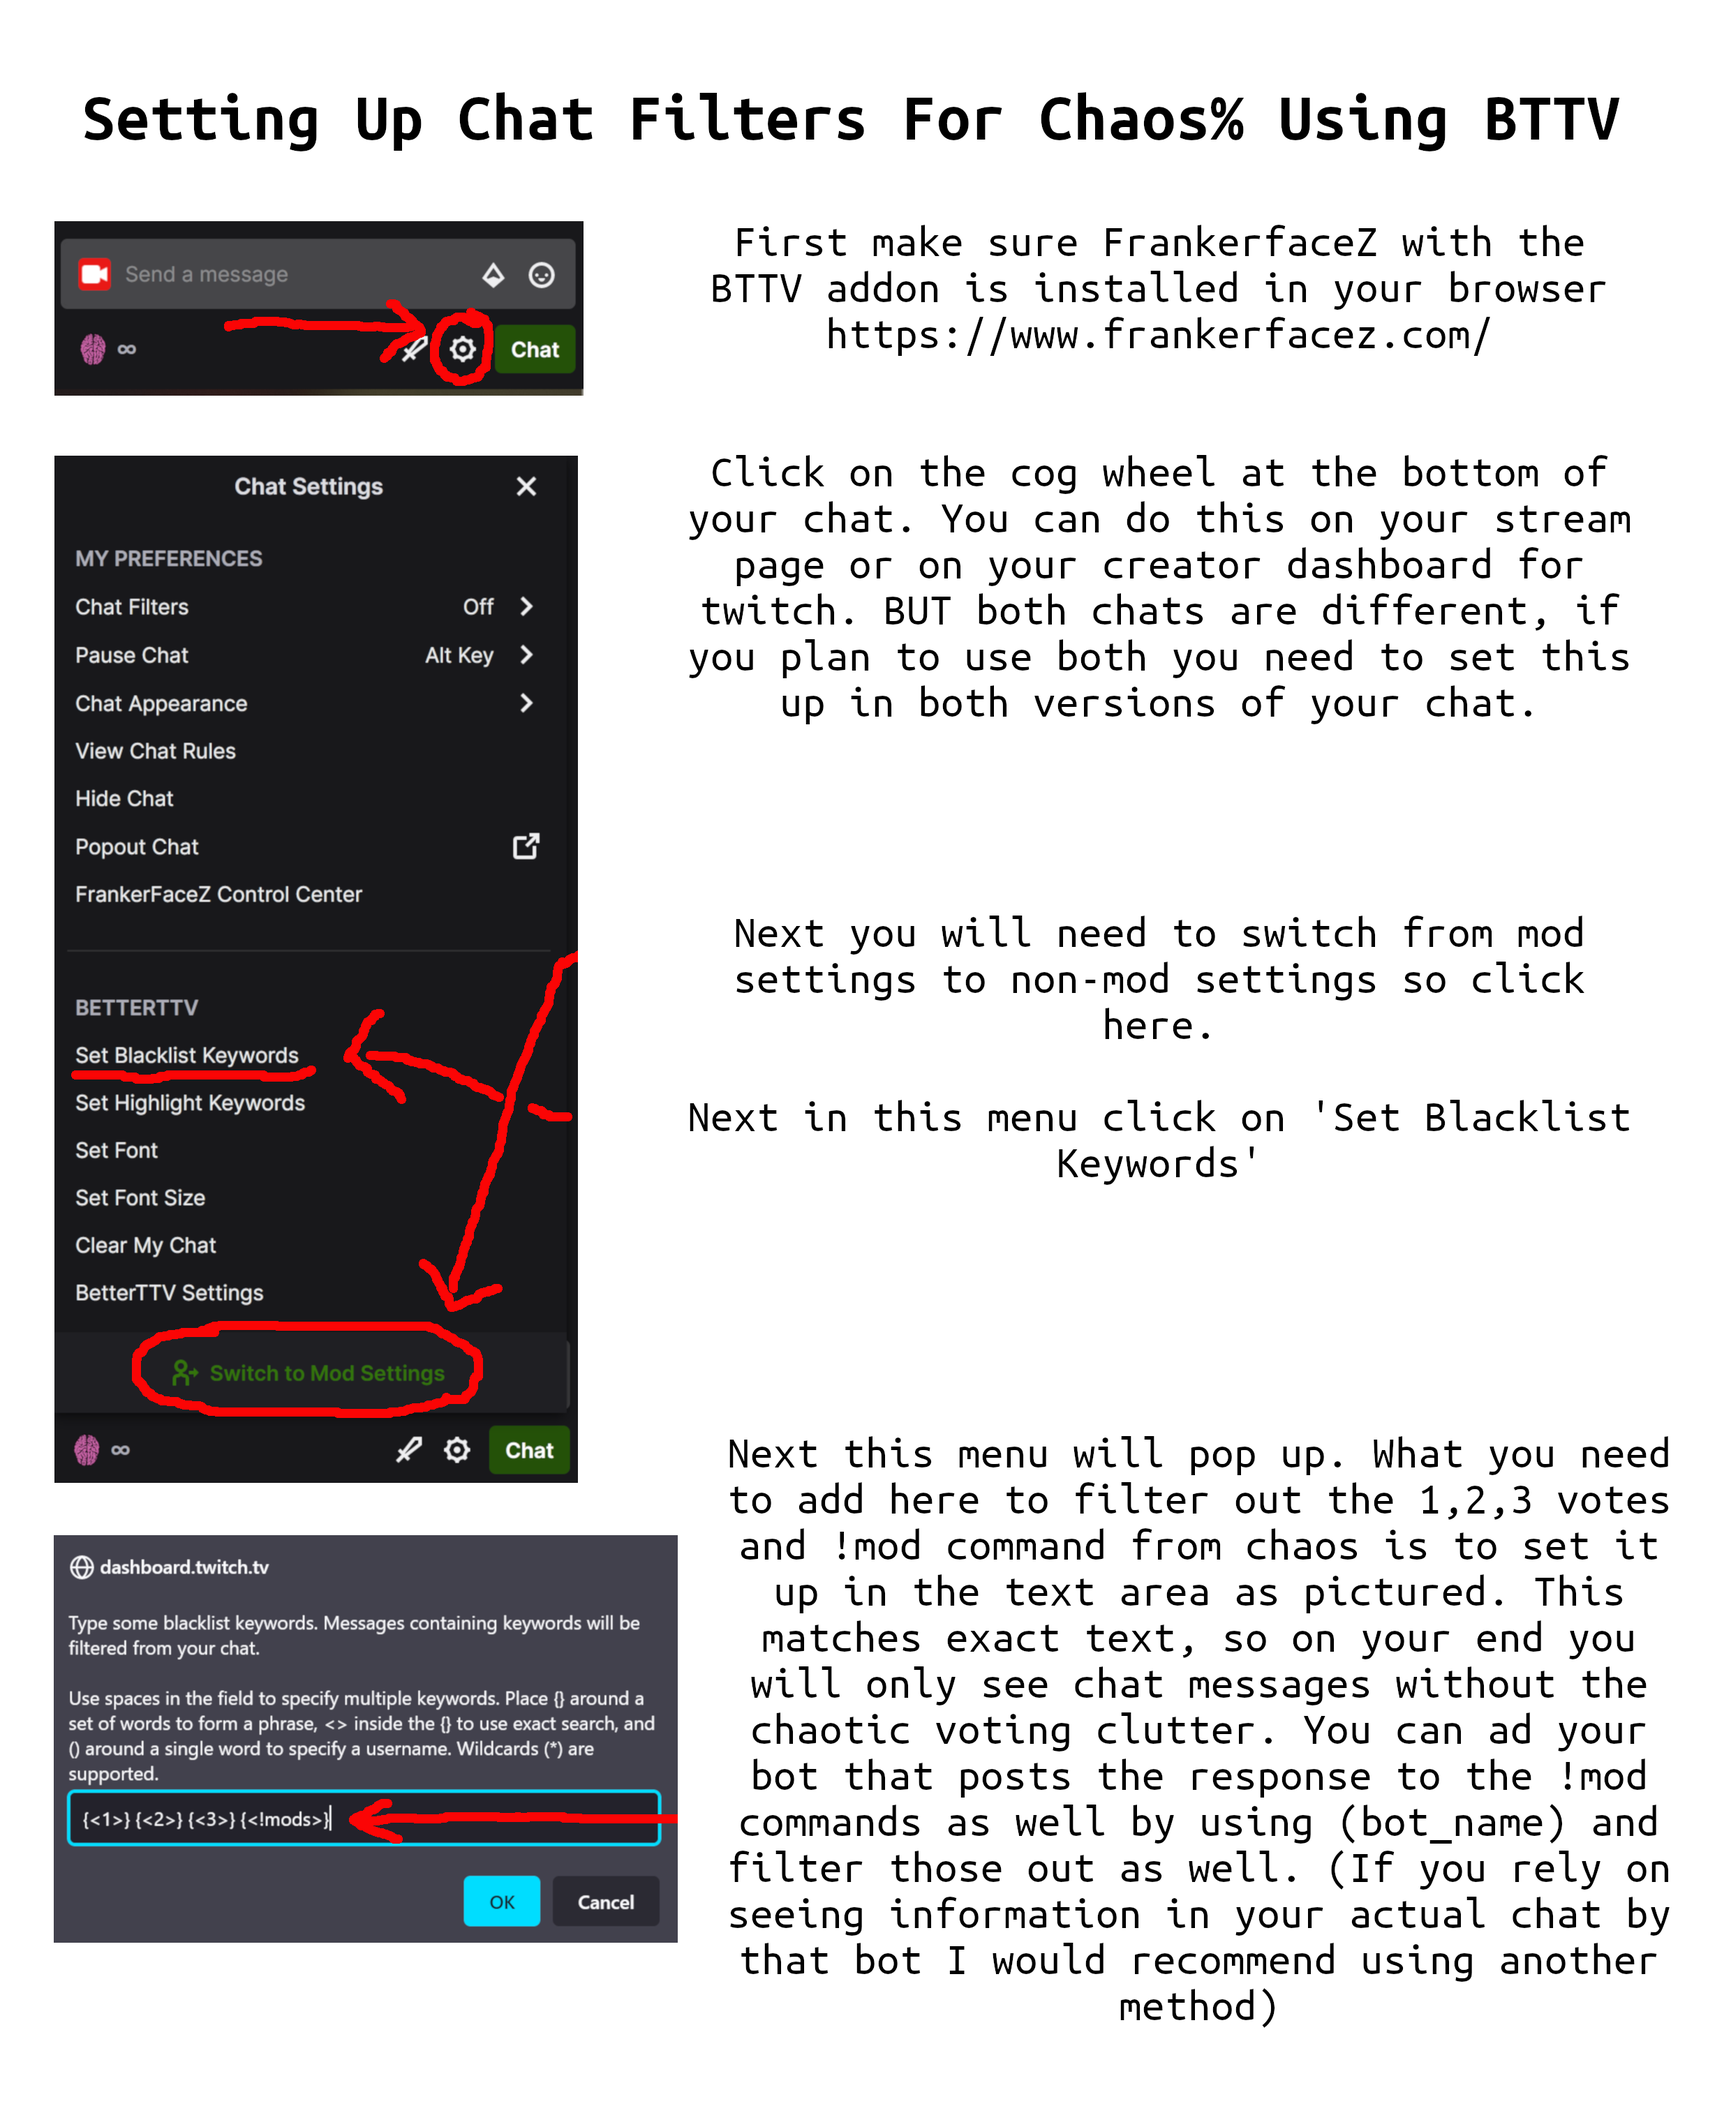
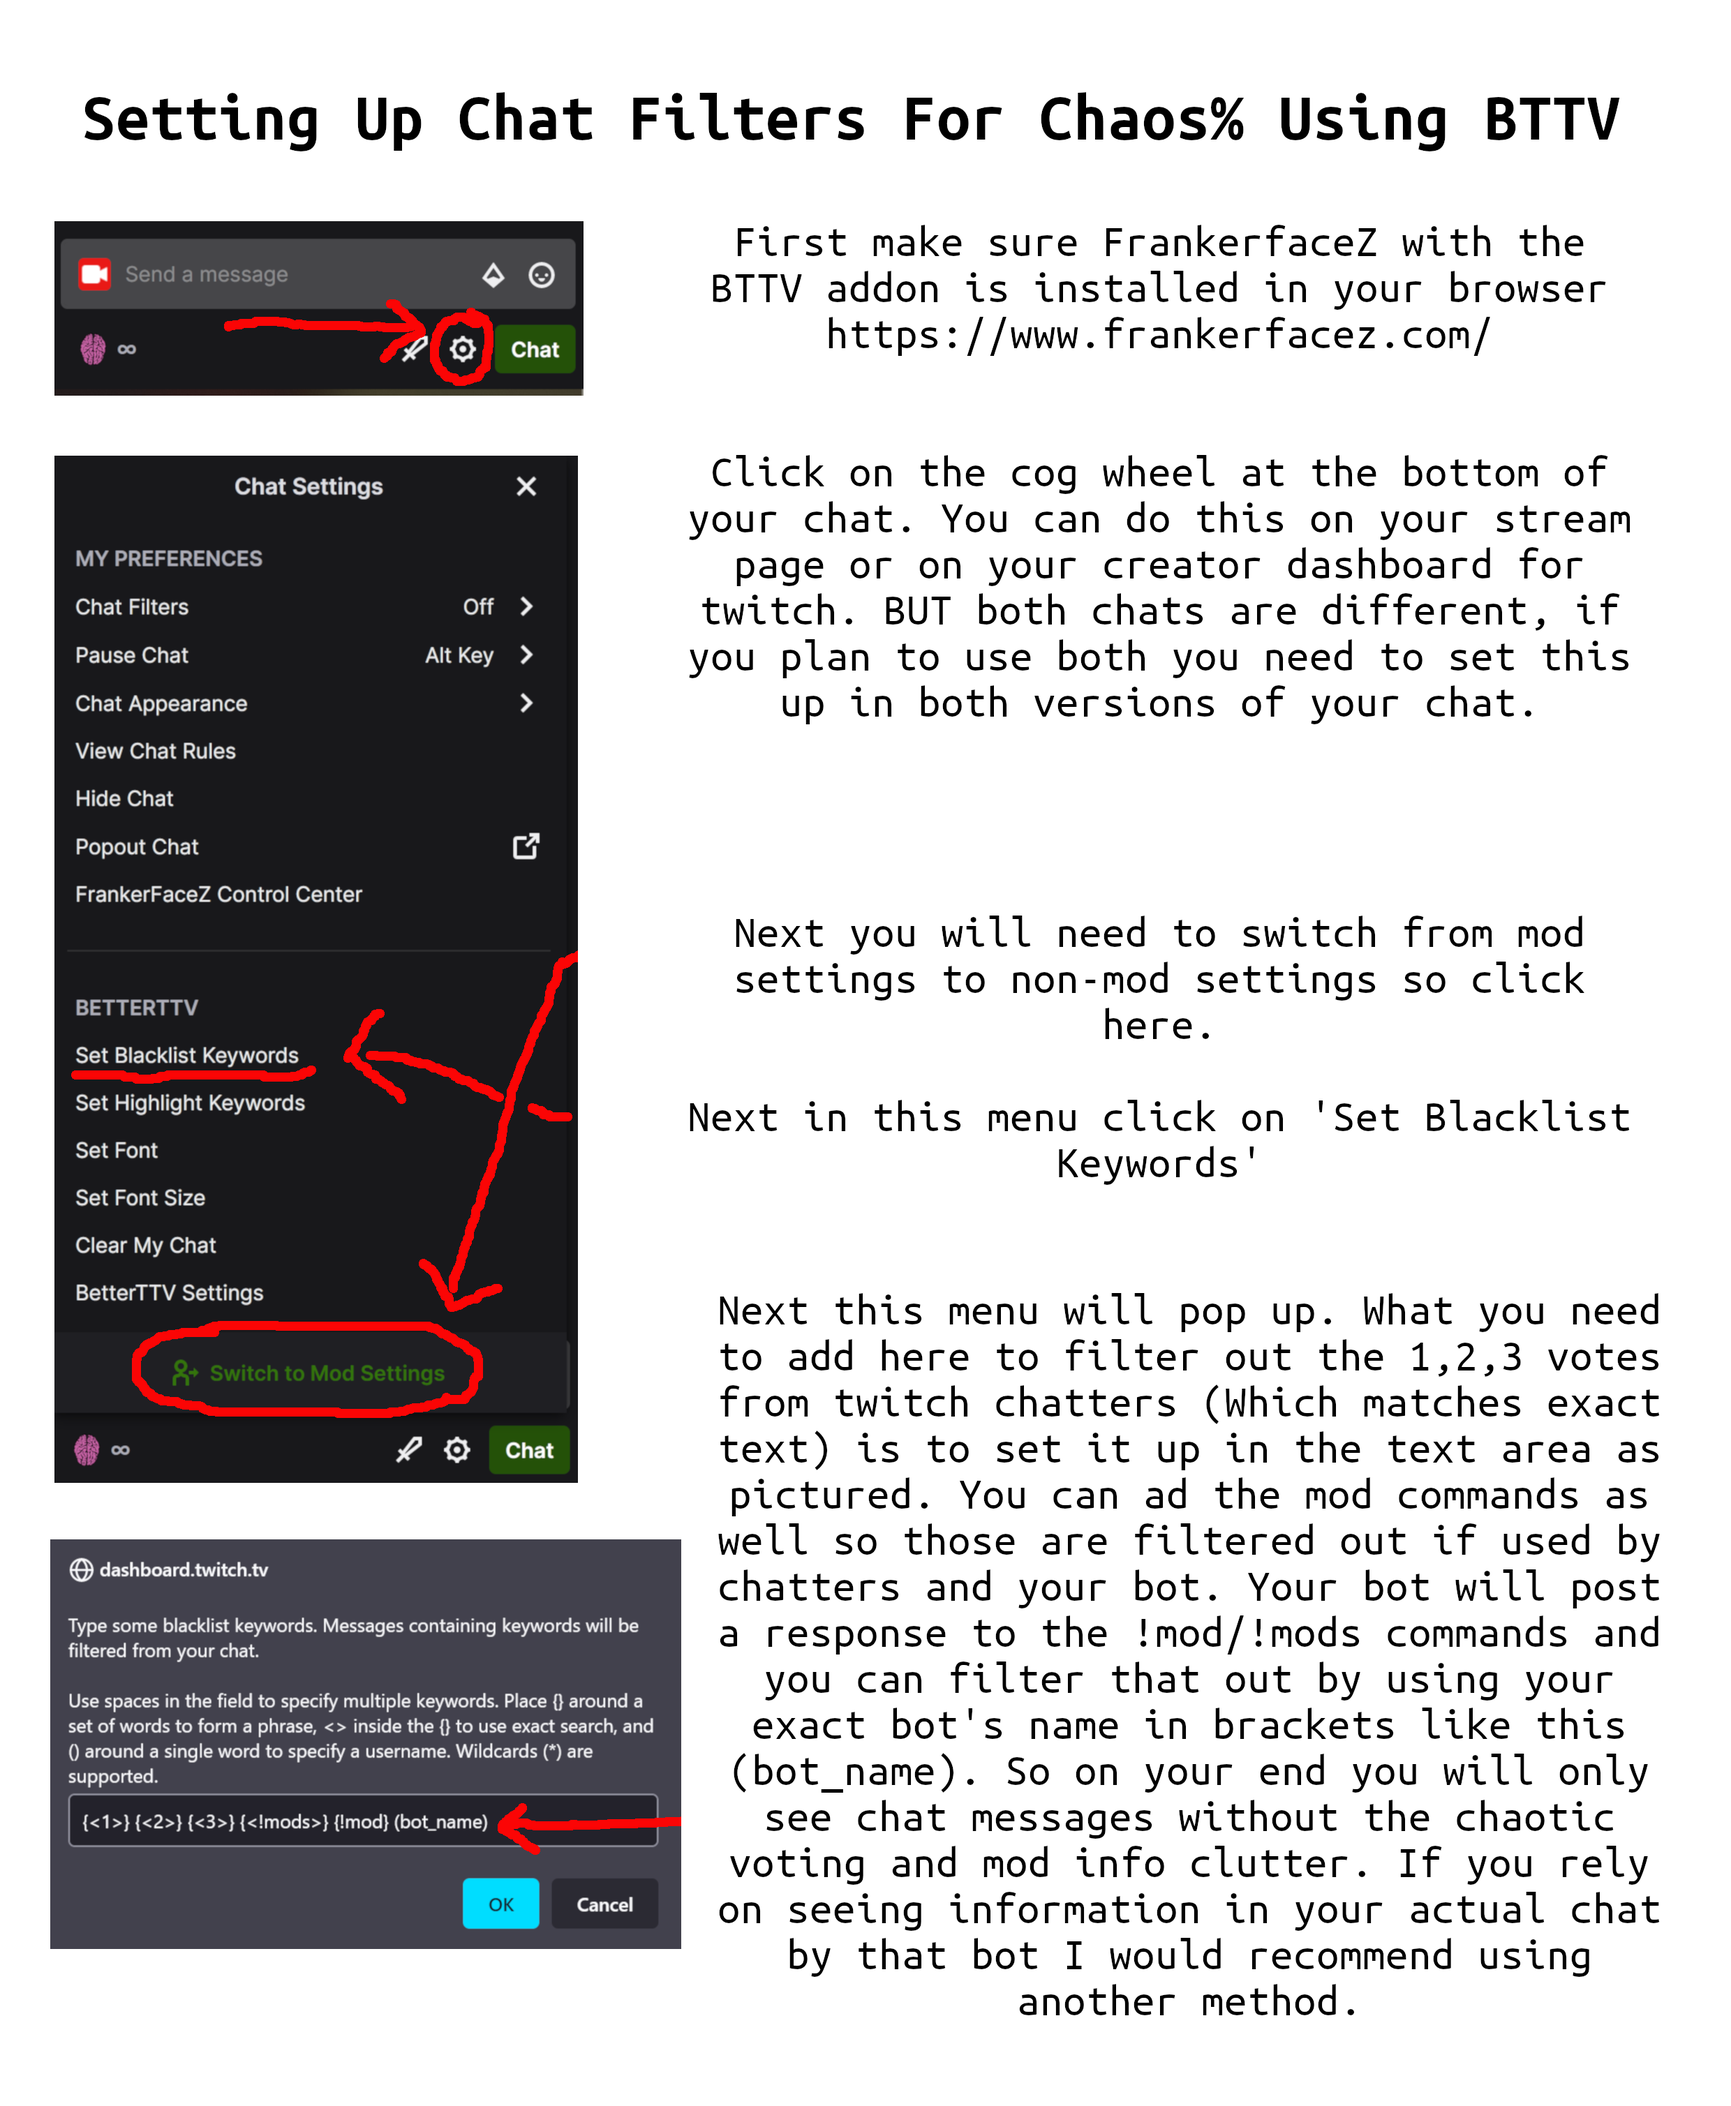
Added streamer interface to catch streamer's attention when chaos is paused based on their peipheral vision

Changed region(s): [[0.031, 0.6229, 0.9625, 0.9655]]

diff --git a/python/main.py b/python/main.py
@@ -88,6 +88,7 @@ class ChaosModel():
 		self.votingLog = open("/home/pi/chaosLogs/votes-" + currentTime + ".log","a", buffering=1)
 		
 		self.pause = True
+#		relay.set_paused(True)
 #		self.chaosListener = ChaosListener()
 #		self.chaosListener.start()
 
@@ -125,6 +126,11 @@ class ChaosModel():
 		if "pause" in y:
 			logging.info("Got a pause command of: " + str(y["pause"]))
 			self.pause = y["pause"]
+#			try:
+#				relay.set_paused(y["pause"])
+#			except Exception as e:
+#				logging.info(e)
+				
 		
 	def applyNewMod(self, mod):
 		print("Winning mod: " + mod)
@@ -182,17 +188,38 @@ class ChaosModel():
 			relay.set_activeMods( self.activeMods )
 		except Exception as e:
 			logging.info(e)
-						
+					
+		self.pausedFlashingTimer = 0.0
+		self.pausedFlashingToggle = True
 		while True:
 			time.sleep(1.0/self.rate)
 			priorTime = now
 			now = time.time()
 			self.voteTime =  now - beginTime
 			dTime = now - priorTime
+			self.pausedFlashingTimer += dTime
 			
+			if not relay.paused == self.pause:
+				try:
+					relay.set_paused(self.pause)
+				except Exception as e:
+					logging.info(e)
+					
 			if self.pause:	# hack implementation of pausing
 				beginTime += dTime
 				dTime = 0
+				if self.pausedFlashingTimer > 0.5 and relay.pausedBrightBackground == True:
+					try:
+						relay.set_pausedBrightBackground(False)
+					except Exception as e:
+						logging.info(e)
+				elif self.pausedFlashingTimer > 1.0 and relay.pausedBrightBackground == False:
+					try:
+						relay.set_pausedBrightBackground(True)
+						self.pausedFlashingTimer = 0.0
+					except Exception as e:
+						logging.info(e)
+					
 #				continue
 			
 			if not self.timePerVote == (relay.timePerModifier/3.0 - 0.5):
@@ -378,6 +405,8 @@ class Relay(flx.Component):
 	activeMods = flx.ListProp(["","",""], settable=True)
 	allMods = flx.ListProp(["1", "2", "3", "4", "5", "6"], settable=True)
 	timePerModifier = flx.FloatProp(chaosConfig["modifier_time"], settable=True)
+	paused = flx.BoolProp(True, settable=True)
+	pausedBrightBackground = flx.BoolProp(True, settable=True)
 	
 	bot_name = flx.StringProp(chaosConfig["bot_name"], settable=True)
 	bot_oauth = flx.StringProp(chaosConfig["bot_oauth"], settable=True)
@@ -420,6 +449,16 @@ class Relay(flx.Component):
 			chaosConfig["modifier_time"]  = ev.new_value
 #			self.updateTimePerModifier(ev.new_value)
 			
+	@flx.reaction('paused')
+	def on_paused(self, *events):
+		for ev in events:
+			self.updatePaused(ev.new_value)
+			
+	@flx.reaction('pausedBrightBackground')
+	def on_pausedBrightBackground(self, *events):
+		for ev in events:
+			self.updatePausedBrightBackground(ev.new_value)
+			
 	@flx.reaction('bot_name')
 	def on_bot_name(self, *events):
 		for ev in events:
@@ -456,6 +495,14 @@ class Relay(flx.Component):
 		
 	@flx.emitter
 	def updateActiveMods(self, value):
+		return dict(value=value)
+		
+	@flx.emitter
+	def updatePaused(self, value):
+		return dict(value=value)
+		
+	@flx.emitter
+	def updatePausedBrightBackground(self, value):
 		return dict(value=value)
         
 # Create global relay object, shared by all connections
@@ -513,6 +560,51 @@ class ChaosActiveView(flx.PyWidget):
 		self.progress[1].set_value(modTimes[1])
 		self.progress[2].set_value(modTimes[2])
 
+class StreamerInterfaceLayout(ui.HVLayout):
+	def init(self):
+		self.set_flex(1)
+		self.set_orientation('v')
+		self.apply_style('background:#000000;')
+
+class StreamerInterface(flx.PyWidget):
+
+#	CSS = """
+#    .flx-Widget {
+#        background: #0C0C0C;
+#    }
+#    """
+	def init(self):
+		with StreamerInterfaceLayout() as self.s:
+			self.voteTimerView = ChaosVoteTimerView(self)
+			self.chaosActiveView = ChaosActiveView(self)
+			self.chaosPausedView = ChaosPausedView(self)
+			
+	@relay.reaction('updateVoteTime')
+	def _updateVoteTime(self, *events):
+		for ev in events:
+			self.voteTimerView.updateTime(ev.value)
+			
+	@relay.reaction('updateModTimes')
+	def _updateModTimes(self, *events):
+		for ev in events:
+			self.chaosActiveView.updateTime(ev.value)
+			
+	@relay.reaction('updateActiveMods')
+	def _updateActiveMods(self, *events):
+		for ev in events:
+			self.chaosActiveView.updateMods(ev.value)
+			
+	@relay.reaction('updatePaused')
+	def _updatePaused(self, *events):
+		for ev in events:
+			self.chaosPausedView.updatePaused(ev.value)
+			
+	@relay.reaction('updatePausedBrightBackground')
+	def _updatePausedBrightBackground(self, *events):
+		for ev in events:
+			self.chaosPausedView.updatePausedBrightBackground(ev.value)
+			
+
 class VoteTimer(flx.PyWidget):
 	def init(self):
 		self.voteTimerView = ChaosVoteTimerView(self)
@@ -533,6 +625,37 @@ class ChaosVoteTimerView(flx.PyWidget):
 	@flx.action
 	def updateTime(self, voteTime):
 		self.progressTime.set_value(voteTime)
+		
+class ChaosPausedView(flx.PyWidget):
+	def init(self, model):
+		super().init()
+		self.model = model
+		
+		#self.apply_style("background-color:black")
+		
+		self.stylePausedDark = "color:white;text-shadow: -1px 0 black, 0 1px black, 1px 0 black, 0 -1px black;text-align:center;font-weight: bold; vertical-align: middle; font-size:50px; min-width:250px; line-height: 2.0; background-color:black"
+		self.stylePausedBright = "color:white;text-shadow: -1px 0 black, 0 1px black, 1px 0 black, 0 -1px black;text-align:center;font-weight: bold; vertical-align: middle; font-size:50px; min-width:250px; line-height: 2.0; background-color:white"
+		if relay.paused:
+			text="Paused"
+		else:
+			text="Running"
+		self.pausedText = flx.Label(flex=3, style=self.stylePausedDark, text=text )
+		
+	@flx.action
+	def updatePaused(self, paused):
+		if paused:
+			self.pausedText.set_text("Paused")
+		else:
+			self.pausedText.apply_style(self.stylePausedDark)
+			self.pausedText.set_text("Running")
+			
+					
+	@flx.action
+	def updatePausedBrightBackground(self, pausedBright):
+		if pausedBright:
+			self.pausedText.apply_style(self.stylePausedBright)
+		else:
+			self.pausedText.apply_style(self.stylePausedDark)
 		
 class Votes(flx.PyWidget):
 	def init(self):
@@ -786,6 +909,7 @@ def startFlexx():
 	#flx.App(ChaosViewController).serve()
 	flx.App(ActiveMods).serve()
 	#flx.App(ChatRoom).serve()
+	flx.App(StreamerInterface).serve()
 	flx.App(VoteTimer).serve()
 	flx.App(Votes).serve()
 	flx.App(BotSetup).serve()

diff --git a/examples/TLOU2/src/main.cpp b/examples/TLOU2/src/main.cpp
@@ -3238,7 +3238,7 @@ public:
 class ChuckStun : public Chaos::Modifier {
 public:
 	static void regist() { Chaos::Modifier::factory["Chuck Smoke Bomb"] = [](){return new ChuckStun();}; };
-	const char* description() { return "It was taking up space anyway"; };
+	const char* description() { return "It was taking up space anyway.  Does nothing when playing Abby"; };
 	
 	bool busy;
 	

diff --git a/docs/streamSetup.md b/docs/streamSetup.md
@@ -30,11 +30,16 @@ When adding browser sources in your chat for the Votes, VoteTime, and ActiveMods
    - - Height 117
    
 ## Chat For The Broadcaster using BTTV
-Twich user [RachyMonster](https://www.twitch.tv/rachyonster) put together the following amazing guide to remove certain commands and votes from chat.  This is an effective way to maintain chat on the streamer's end without seeing the plethora of votes and particular bot commands that may spoil the winning mod surprise.  Thank you for the guide Rachy!  
+Twich user [RachyMonster](https://www.twitch.tv/rachymonster) put together the following amazing guide to remove certain commands and votes from chat.  This is an effective way to maintain chat on the streamer's end without seeing the plethora of votes and particular bot commands that may spoil the winning mod surprise.  Thank you for the guide Rachy!  
 
 For easy copy/paste, here is what I put in my BTTV blacklist settings:
 ```
-{<1>}{<2>}{<3>}{!mods}{!mod}
+{<1>}{<2>}{<3>}{<!mods>}{!mod}
+```
+
+To ignore all bot commands, this is what I would use for my bot names "See_Bot":
+```
+{<1>}{<2>}{<3>}{<!mods>}{!mod}(See_Bot)
 ```
 
 ![BTTV Chat](https://github.com/blegas78/chaos/blob/main/docs/images/bttv.png?raw=true)

diff --git a/docs/TLOU2/README.md b/docs/TLOU2/README.md
@@ -204,7 +204,7 @@ If you know that you are about to enter a new area where you lose control of you
 137: Terminated -- Render Mode
 138: Toss A Molly/Bomb -- Time to riot, chucks a molly (bomb if Abby)
 139: Touch Of Death -- Golden fists activated.  One hit enemy deaths
-140: Touchpad Aiming -- No more right joystick, finally making use of the touchpaUHID_OPEN from uhid-dev
+140: Touchpad Aiming -- No more right joystick, finally making use of the touchpad
 141: Traversal Assistance -- Climb when you really do not want to
 142: Traversal Audio Cues -- Add some music to climbable objects
 143: Trigger Remap -- Randomly remaps trigger/bumper buttons (L1, R1, L2, R2)

diff --git a/README.md b/README.md
@@ -120,7 +120,7 @@ Chaos would not be nearly as colorful or effective without community contributio
   - - Reviewer
   - PrincessDiodes [Github](https://github.com/ash3rz) [Twitch](https://www.twitch.tv/princessdiodes)
   - - Server-side gamepad viewer implementation
-  - RachyMonster [Twitch](https://www.twitch.tv/rachyonster)
+  - RachyMonster [Twitch](https://www.twitch.tv/rachymonster)
   - - Figured out how to make readable and spoiler free chat in the [Stream Setup](docs/streamSetup.md) guide
 
 #### Testers
